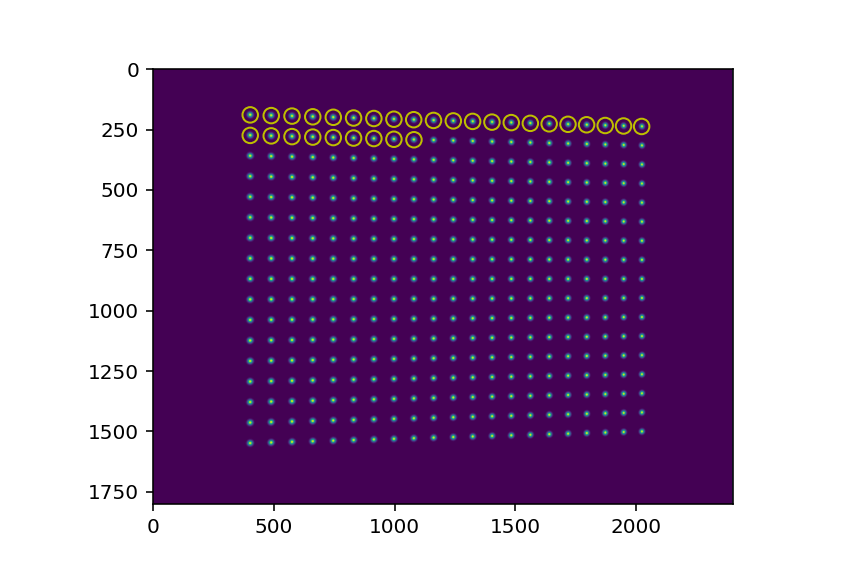
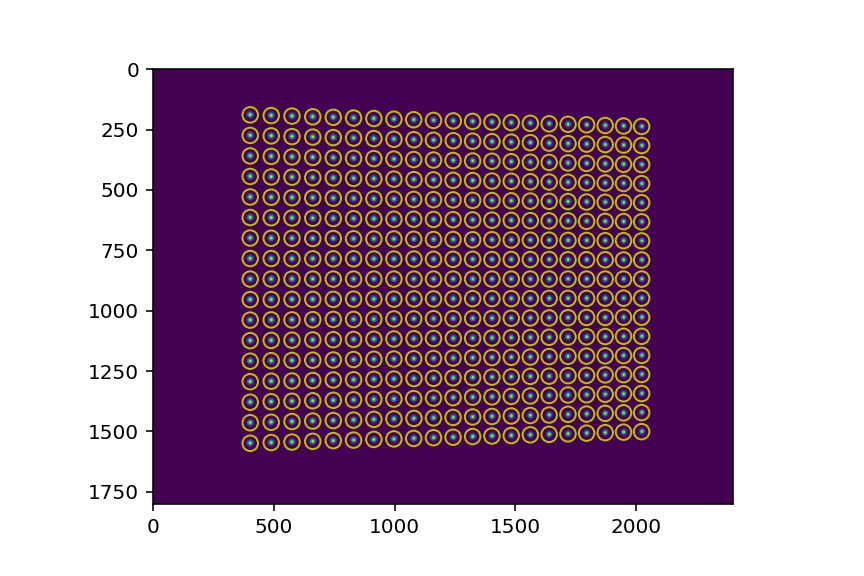
Code

Changed region(s): [[0.2812, 0.2188, 0.75, 0.7812]]

diff --git a/code/stereovision.py b/code/stereovision.py
@@ -9,7 +9,9 @@ Created on Sat May  8 22:14:46 2021
 import numpy as np
 from numpy import exp, array
 from numba import njit
+from math import floor, ceil
 from time import time
+from sklearn.linear_model import LinearRegression
 
 # Local modules
 from crosscorrelation import norm_crosscorr2d
@@ -31,47 +33,19 @@ def gaussian2d(x, y, a, sigma):
     """2D Gaussian function centred around (x, y) = (0, 0)"""
     return a*exp(-(x*x+y*y)/(2*sigma*sigma))
 
-def filter_coords(R, L=12):
-    """
-    Process the cross-correlation matrix of a calibration image to produce a 
-    sorted array of unique dot coordinates
-    """
-    N = shape[0]*shape[1]
-    coords = [[]]*N
-    R_coords = np.argwhere(R > threshold)
-    R_coords[:,[0, 1]] = R_coords[:,[1, 0]] # Swap columns
-    R_coords = R_coords.tolist()
-    # Iterate over unique coordinates
-    for i in range(N):
-        # Select first coordinate from R_coords
-        x_i = R_coords[0][0]
-        y_i = R_coords[0][1]
-        x_sum = x_i
-        y_sum = y_i
-        R_coords_new = R_coords[1:]
-        n = 1
-        # Iterate through remaining R_coords, adding coords similar to
-        # selected coord to summation then removing them from R_coords
-        for coord in R_coords[1:]:
-            x = coord[0]
-            y = coord[1]
-            if (x_i-10 < x < x_i+10) & (y_i-10 < y < y_i+10):
-                x_sum += x
-                y_sum += y
-                n += 1
-                R_coords_new.remove(coord)
-        R_coords = R_coords_new
-        # Take average x_coord and y_coord of similar coords as final pixel coord
-        coords[i] = [round(x_sum/n + L/2), round(y_sum/n + L/2)]
-    coords = array(coords)
+def calc_imageshift(image1, image2, wsize, xgrid, ygrid, ssize=3):
+    """"""
+    im1_array = np.array(image1.convert('L'))
+    im2_array = np.array(image2.convert('L'))
+    h1 = wsize/2
+    h2 = wsize*ssize/2
+    t = im1_array[xgrid - floor(h1):xgrid + ceil(h1), \
+                  ygrid - floor(h1):ygrid + ceil(h1)]
+    A = im2_array[xgrid - floor(h2):xgrid + ceil(h2), \
+                  ygrid - floor(h2):ygrid + ceil(h2)]
+    R = norm_crosscorr2d(t, A)
+    return R
     
-    # Group coordinates into rows from bottom to top
-    coords = coords[np.argsort(coords[:,1])]
-    # Sort row elements from left to right
-    for i in range(shape[0]):
-        row_i = coords[shape[1]*i:shape[1]*(i+1)]
-        coords[shape[1]*i:shape[1]*(i+1)] = row_i[np.argsort(row_i[:,0])]
-    return coords
 
 class Calibration:
     """
@@ -81,6 +55,7 @@ class Calibration:
         self.template = array([], dtype=np.float64)
         self.variables = array([], dtype=np.float64).reshape(0,14)
         self.labels = array([], dtype=np.float64).reshape(0,3)
+        self.coef = array([], dtype=np.float64)
         
     def gen_template(self, L=12):
         """
@@ -92,16 +67,48 @@ class Calibration:
         self.template = template
         self.L = L
         return template
-    
+
     @staticmethod
-    def gen_real_coords(z):
-        """"""
-        coords = np.zeros((N, 3))
-        x = np.arange(-500, 550, 50)
-        y = np.arange(0, 850, 50)
-        coords[:,0] = np.tile(x, shape[0])
-        coords[:,1] = np.repeat(y, shape[1])
-        coords[:,2] = np.repeat(z, N)
+    def filter_coords(R, L):
+        """
+        Process the cross-correlation matrix of a calibration image to produce a 
+        sorted array of unique dot coordinates
+        """
+        N = shape[0]*shape[1]
+        coords = [[]]*N
+        R_coords = np.argwhere(R > threshold)
+        R_coords[:,[0, 1]] = R_coords[:,[1, 0]] # Swap columns
+        R_coords = R_coords.tolist()
+        # Iterate over unique coordinates
+        for i in range(N):
+            # Select first coordinate from R_coords
+            x_i = R_coords[0][0]
+            y_i = R_coords[0][1]
+            x_sum = x_i
+            y_sum = y_i
+            R_coords_new = R_coords[1:]
+            n = 1
+            # Iterate through remaining R_coords, adding coords similar to
+            # selected coord to summation then removing them from R_coords
+            for coord in R_coords[1:]:
+                x = coord[0]
+                y = coord[1]
+                if (x_i-10 < x < x_i+10) & (y_i-10 < y < y_i+10):
+                    x_sum += x
+                    y_sum += y
+                    n += 1
+                    R_coords_new.remove(coord)
+            R_coords = R_coords_new
+            # Take average x_coord and y_coord of similar coords as final pixel coord
+            coords[i] = [round(x_sum/n + L/2), round(y_sum/n + L/2)]
+        coords = array(coords)
+        
+        # Group coordinates into rows from bottom to top
+        coords = coords[np.argsort(coords[:,1])]
+        # Sort row elements from left to right
+        for i in range(shape[0]):
+            row_i = coords[shape[1]*i:shape[1]*(i+1)]
+            coords[shape[1]*i:shape[1]*(i+1)] = row_i[np.argsort(row_i[:,0])]
         return coords
     
     @staticmethod
@@ -117,6 +124,17 @@ class Calibration:
                                       y_l*x_r, y_l*y_r, x_r*y_r), axis=1)
         variables[:, 10:14] = variables[:, :4]**2
         return variables
+
+    @staticmethod
+    def gen_real_coords(z):
+        """"""
+        coords = np.zeros((N, 3))
+        x = np.arange(-500, 550, 50)
+        y = np.arange(0, 850, 50)
+        coords[:,0] = np.tile(x, shape[0])
+        coords[:,1] = np.repeat(y, shape[1])
+        coords[:,2] = np.repeat(z, N)
+        return coords
     
     def process_images(self, left_image, right_image, z):
         """
@@ -128,11 +146,19 @@ class Calibration:
         left_R = norm_crosscorr2d(self.template, left_search)
         right_R = norm_crosscorr2d(self.template, right_search)
         # Filter cross-corr matrix to obtain ordered list of pixel coordinates
-        left_pixel_coords = filter_coords(left_R, self.L)
-        right_pixel_coords = filter_coords(right_R, self.L)
-        #
+        left_pixel_coords = self.filter_coords(left_R, self.L)
+        right_pixel_coords = self.filter_coords(right_R, self.L)
+        # Construct variable and label array for fitting
         variables = self.gen_variables(left_pixel_coords, right_pixel_coords)
         labels = self.gen_real_coords(z)
         self.variables = np.vstack((self.variables, variables))
         self.labels = np.vstack((self.labels, labels))
         return variables, labels
+    
+    def fit_model(self):
+        """"""
+        model = LinearRegression()
+        model.fit(self.variables, self.labels)
+        intercept = model.intercept_.reshape(3,1)
+        self.coef = np.hstack((intercept, model.coef_))
+        

diff --git a/code/calibration.py b/code/calibration.py
@@ -1,4 +1,4 @@
-# -*- coding: utf-8 -*-
+    # -*- coding: utf-8 -*-
 """
 Created on Tue May 11 14:38:16 2021
 
@@ -34,7 +34,7 @@ right_2000 = Image.open('data/cal_image_right_2000.tiff')
 cal = Calibration()
 cal.gen_template(L=12)
 
-# Generate pixel coordinates, real coordinates, and prepare for fitting 
+# Generate real and pixel coordinates, and prepare for fitting 
 print('Processing images...')
 start = time()
 cal.process_images(left_1900, right_1900, z=1900)
@@ -57,9 +57,10 @@ model.fit(cal.variables, cal.labels)
 
 intercept = model.intercept_.reshape(3,1)
 coef = np.hstack((intercept, model.coef_))
-pd.DataFrame(coef).to_csv('output/calibration_coef.csv', header=None, index=None)
+coefdf = pd.DataFrame(coef, index=['x', 'y', 'z'])
+coefdf.to_csv('output/calibration_coef.csv')
 
-# Print mean squared error of model fit
+# Print mean squared error of model
 pred = model.predict(cal.variables)
 MSE_x = mean_squared_error(x, pred[:,0])
 MSE_y = mean_squared_error(y, pred[:,1])

diff --git a/code/dotdetection.py b/code/dotdetection.py
@@ -14,7 +14,7 @@ from time import time
 
 # Local modules
 from crosscorrelation import norm_crosscorr2d
-from stereovision import gaussian, gaussian2d, filter_coords
+from stereovision import gaussian, gaussian2d, Calibration
 
 # Load calibration file and convert into grayscale matrix
 search = Image.open('data/cal_image_left_2000.tiff')
@@ -45,7 +45,7 @@ print(f'Time elapsed (calculate 2d cross-corr vector): {round(end - start, 2)}s'
 # Convert and filter cross-correlation matrix into an ordered array of 
 # coordinates where each dot corresponds to a single coordinate
 start = time()
-coords = filter_coords(R, L, threshold=0.6)
+coords = Calibration.filter_coords(R, L)
 end = time()
 print(f'Time elapsed (filter coordinates): {round(end - start, 2)}s')
 plt.imshow(search)

diff --git a/code/deprecated.py b/code/deprecated.py
@@ -4,10 +4,10 @@ Created on Tue Mar 30 12:50:42 2021
 
 @author: Fidel
 """
-
+# Import
 import numpy as np
 
-# Part 1 functions
+# Deprecated functions
 def crosscorr(f, g):
     """
     Takes two vectors of the same size, subtracts the vector elements by their
